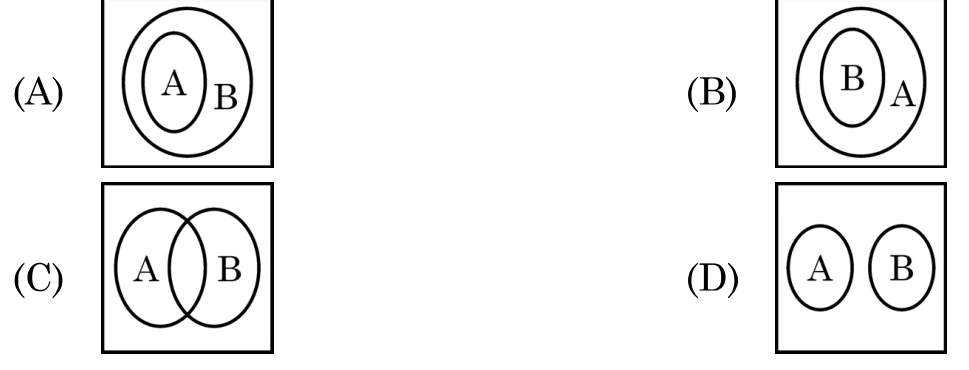
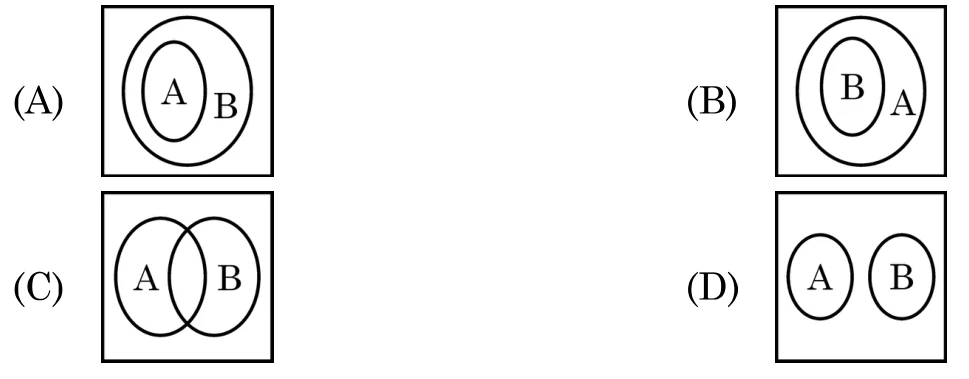
2019: write out the two tan-sum ITF equations
Claude-Session: https://claude.ai/code/session_01W7XZGjmttugF6fo92Sv419

diff --git a/content/2019/65-1-2.md b/content/2019/65-1-2.md
@@ -31,7 +31,18 @@ $$I = \int \frac{\tan^2 x\sec^2 x}{1 - (\tan^3 x)^2}\,dx$$
 Put $\tan^3 x = t \Rightarrow 3\tan^2 x\sec^2 x\,dx = dt$:
 $$I = \frac{1}{3}\int \frac{dt}{1 - t^2} = \frac{1}{3}\cdot\frac{1}{2}\log\left|\frac{1 + t}{1 - t}\right| + C = \frac{1}{6}\log\left|\frac{1 + \tan^3 x}{1 - \tan^3 x}\right| + C$$
 
-=== 13 x solving an inverse trigonometric equation (tan⁻¹x + tan⁻¹y formula)
+=== 13 | itf | 4 | sub
+@topic Simplification
+Solve for $x$: $\tan^{-1}(2x) + \tan^{-1}(3x) = \dfrac{\pi}{4}$.
+--- ans
+Let $\alpha = \tan^{-1}(2x)$ and $\beta = \tan^{-1}(3x)$, so $\tan\alpha = 2x$, $\tan\beta = 3x$ and $\alpha, \beta \in \left(-\dfrac{\pi}{2}, \dfrac{\pi}{2}\right)$. The equation is $\alpha + \beta = \dfrac{\pi}{4}$.
+Taking tangent of both sides and using $\tan(\alpha + \beta) = \dfrac{\tan\alpha + \tan\beta}{1 - \tan\alpha\tan\beta}$:
+$$\frac{2x + 3x}{1 - (2x)(3x)} = \tan\frac{\pi}{4} = 1 \Rightarrow 5x = 1 - 6x^2 \Rightarrow 6x^2 + 5x - 1 = 0$$
+$$\Rightarrow (6x - 1)(x + 1) = 0 \Rightarrow x = \dfrac{1}{6} \text{ or } x = -1$$
+Taking tangent can introduce extra roots, so check the angle:
+For $x = -1$: $\tan^{-1}(2x)$ and $\tan^{-1}(3x)$ are both negative, so $\alpha + \beta < 0 \ne \dfrac{\pi}{4}$. Rejected.
+For $x = \dfrac{1}{6}$: $0 < 2x, 3x < 1$, so $\alpha, \beta \in \left(0, \dfrac{\pi}{4}\right)$ and $\alpha + \beta \in \left(0, \dfrac{\pi}{2}\right)$; there $\tan(\alpha + \beta) = 1$ gives $\alpha + \beta = \dfrac{\pi}{4}$ ✓.
+$$\therefore\ x = \dfrac{1}{6}$$
 
 === 18 x properties of determinants
 

diff --git a/content/2019/65-1-3.md b/content/2019/65-1-3.md
@@ -110,7 +110,18 @@ $\therefore |\hat{a} - \hat{b}| = \sqrt{3}$. Hence proved.
 
 === 13 x properties of determinants
 
-=== 14 x solving an inverse trigonometric equation (tan⁻¹x + tan⁻¹y formula)
+=== 14 | itf | 4 | sub
+@topic Simplification
+Solve: $\tan^{-1}4x + \tan^{-1}6x = \dfrac{\pi}{4}$.
+--- ans
+Let $\alpha = \tan^{-1}(4x)$ and $\beta = \tan^{-1}(6x)$, so $\tan\alpha = 4x$, $\tan\beta = 6x$ and $\alpha, \beta \in \left(-\dfrac{\pi}{2}, \dfrac{\pi}{2}\right)$. The equation is $\alpha + \beta = \dfrac{\pi}{4}$.
+Taking tangent of both sides and using $\tan(\alpha + \beta) = \dfrac{\tan\alpha + \tan\beta}{1 - \tan\alpha\tan\beta}$:
+$$\frac{4x + 6x}{1 - (4x)(6x)} = \tan\frac{\pi}{4} = 1 \Rightarrow 10x = 1 - 24x^2 \Rightarrow 24x^2 + 10x - 1 = 0$$
+$$\Rightarrow (12x - 1)(2x + 1) = 0 \Rightarrow x = \dfrac{1}{12} \text{ or } x = -\dfrac{1}{2}$$
+Taking tangent can introduce extra roots, so check the angle:
+For $x = -\dfrac{1}{2}$: $\tan^{-1}(4x)$ and $\tan^{-1}(6x)$ are both negative, so $\alpha + \beta < 0 \ne \dfrac{\pi}{4}$. Rejected.
+For $x = \dfrac{1}{12}$: $0 < 4x, 6x < 1$, so $\alpha, \beta \in \left(0, \dfrac{\pi}{4}\right)$ and $\alpha + \beta \in \left(0, \dfrac{\pi}{2}\right)$; there $\tan(\alpha + \beta) = 1$ gives $\alpha + \beta = \dfrac{\pi}{4}$ ✓.
+$$\therefore\ x = \dfrac{1}{12}$$
 
 === 15a | rf | 4 | sub
 @topic Types of relations
